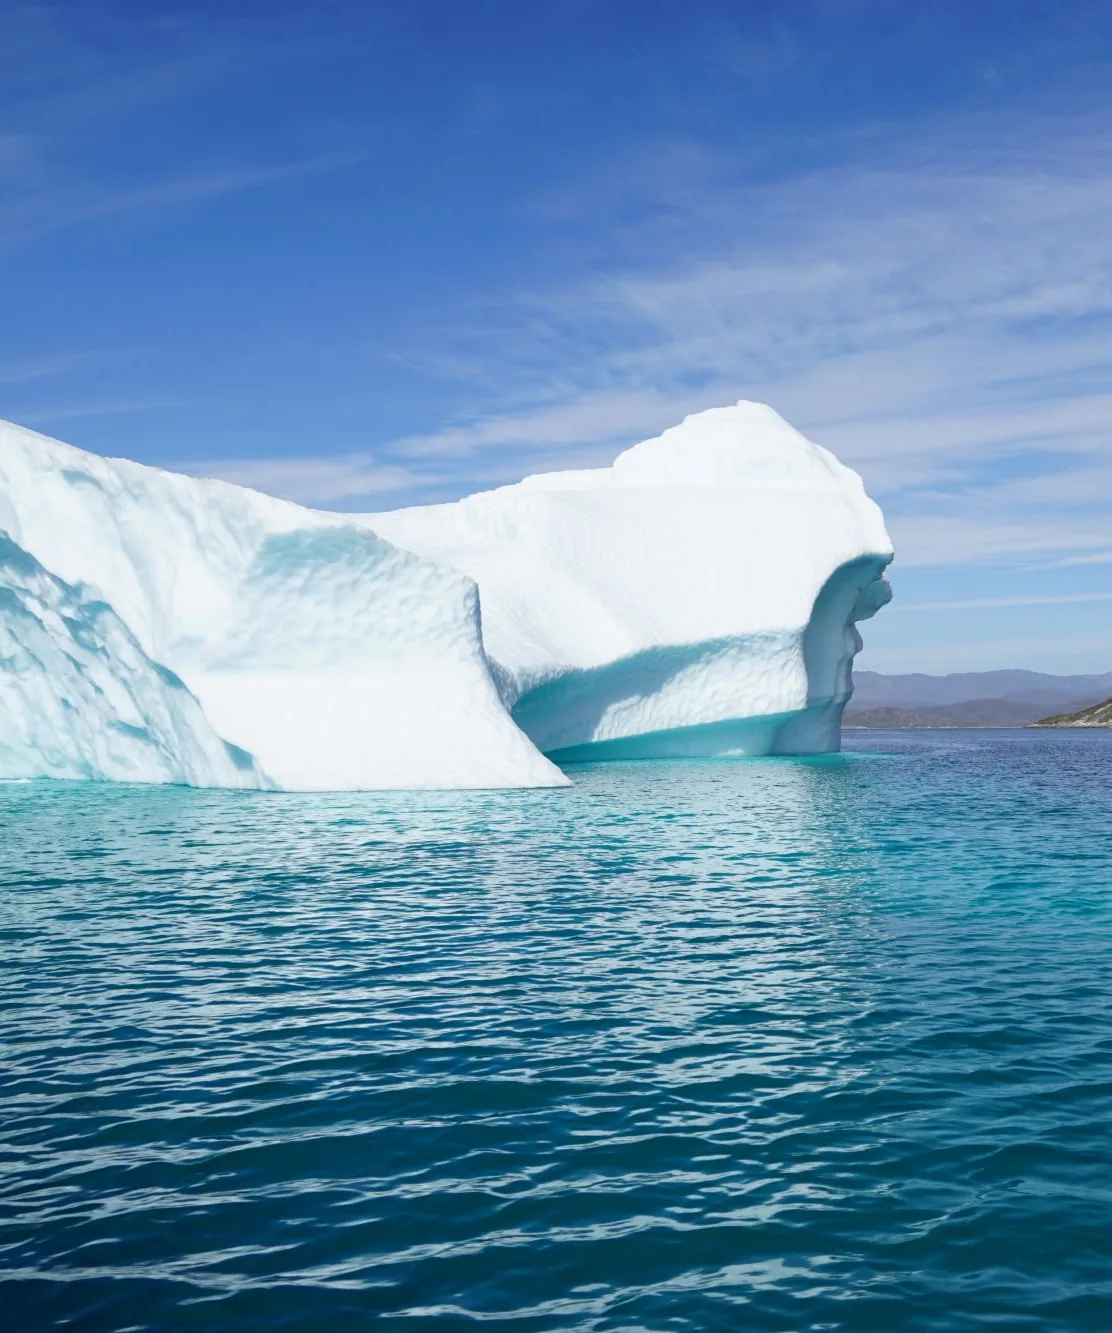
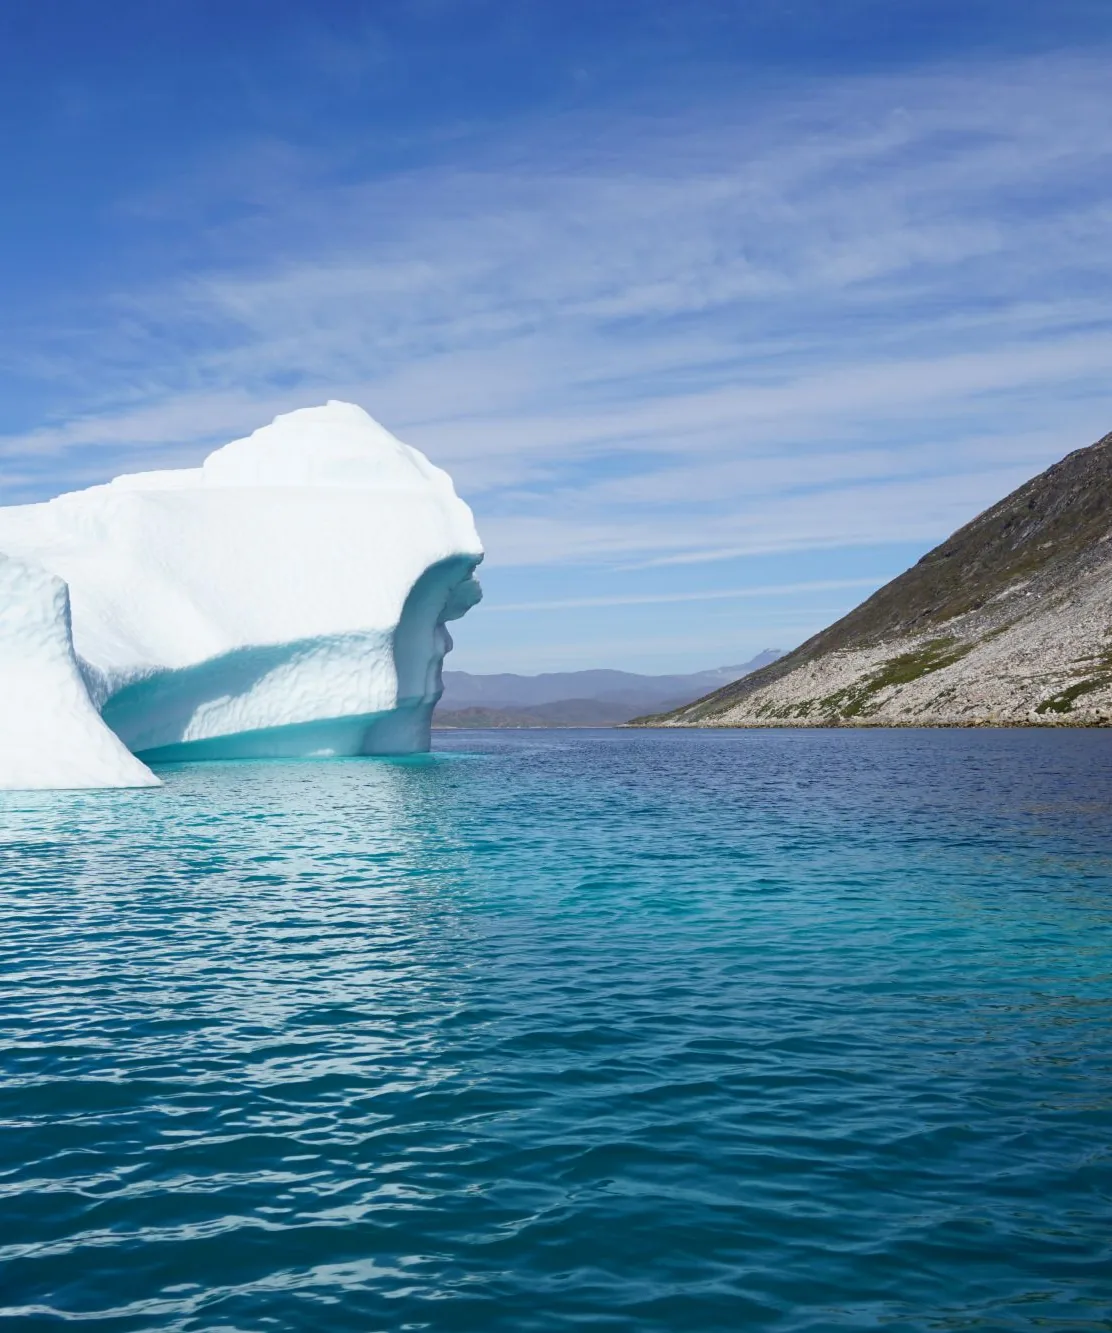
New About us hero image; reframe iceberg to show iceberg, channel and land

diff --git a/src/content/about.ts b/src/content/about.ts
@@ -4,7 +4,7 @@ import annualReportCover from "@/assets/images/about/annual-report-cover.webp";
 import complianceHeroImage from "@/assets/images/about/compliance-hero.webp";
 import financialsHeroImage from "@/assets/images/about/financials-hero.webp";
 import governanceHeroImage from "@/assets/images/about/governance-hero.webp";
-import heroImage from "@/assets/images/about/hero-mv-baltazar.webp";
+import heroImage from "@/assets/images/about/hero-hull-wake.webp";
 import t1946 from "@/assets/images/about/timeline/1946.webp";
 import t1958 from "@/assets/images/about/timeline/1958.webp";
 import t1960s from "@/assets/images/about/timeline/1960s.webp";
